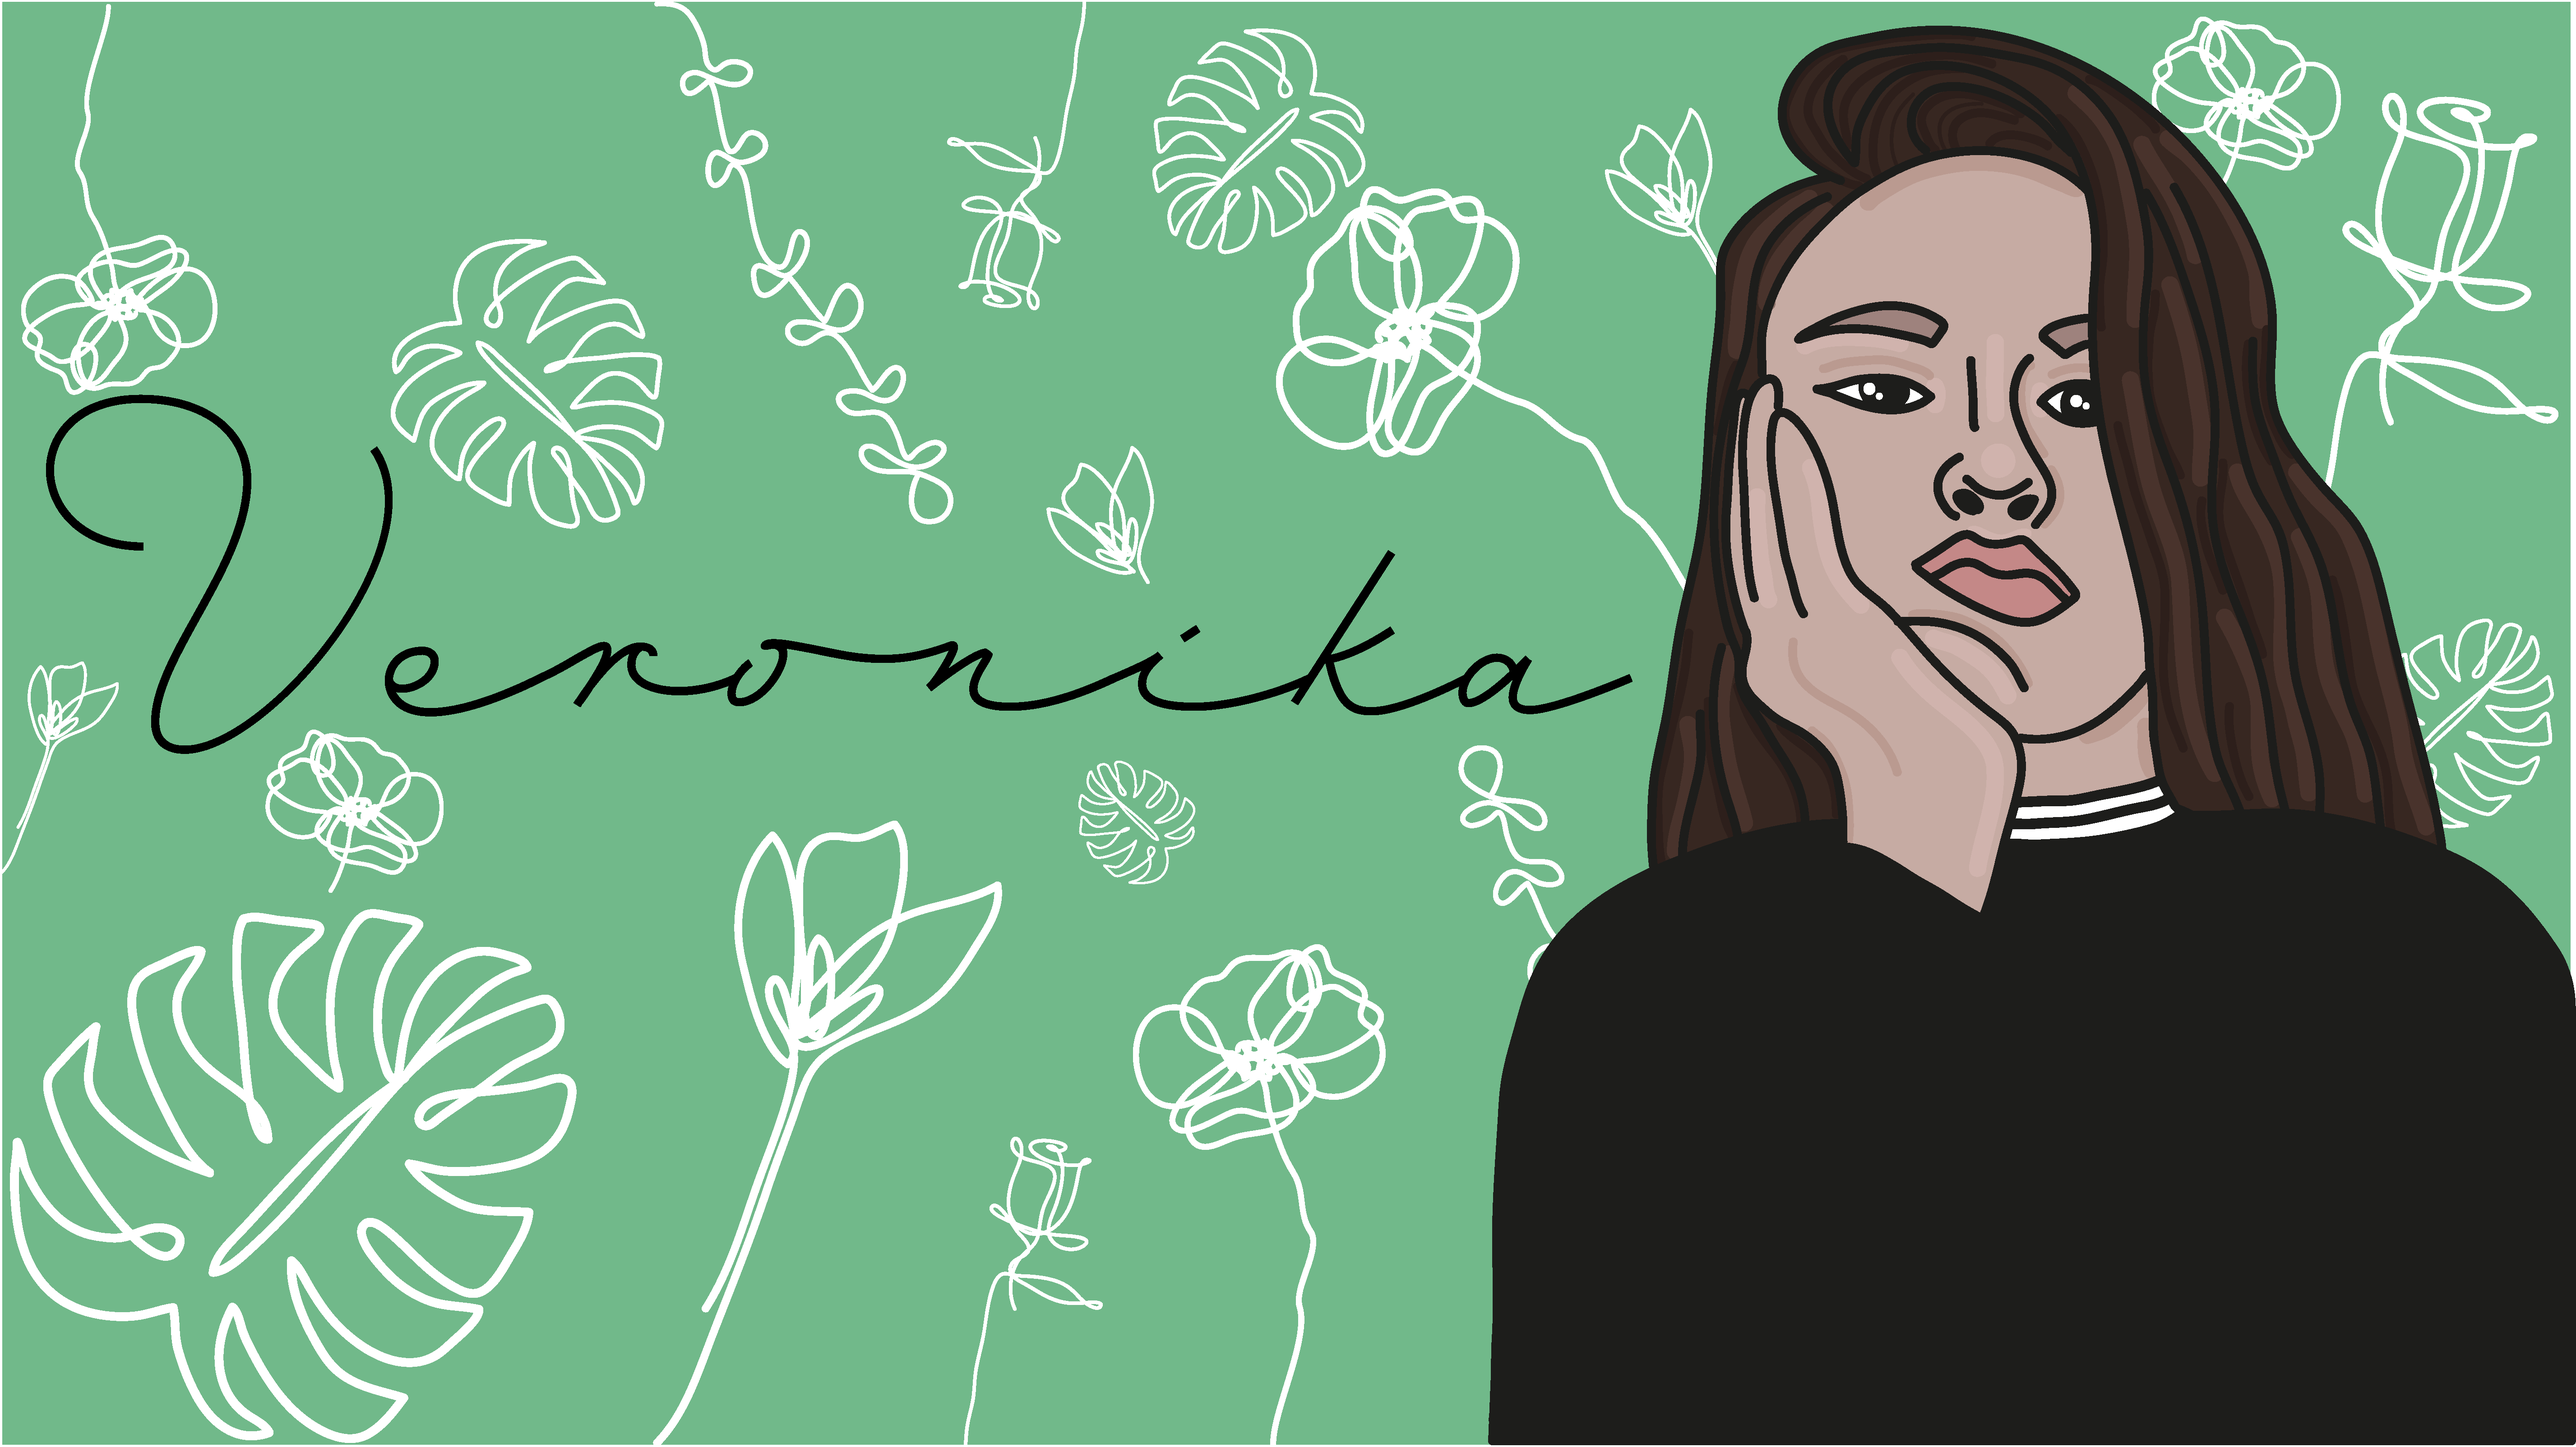
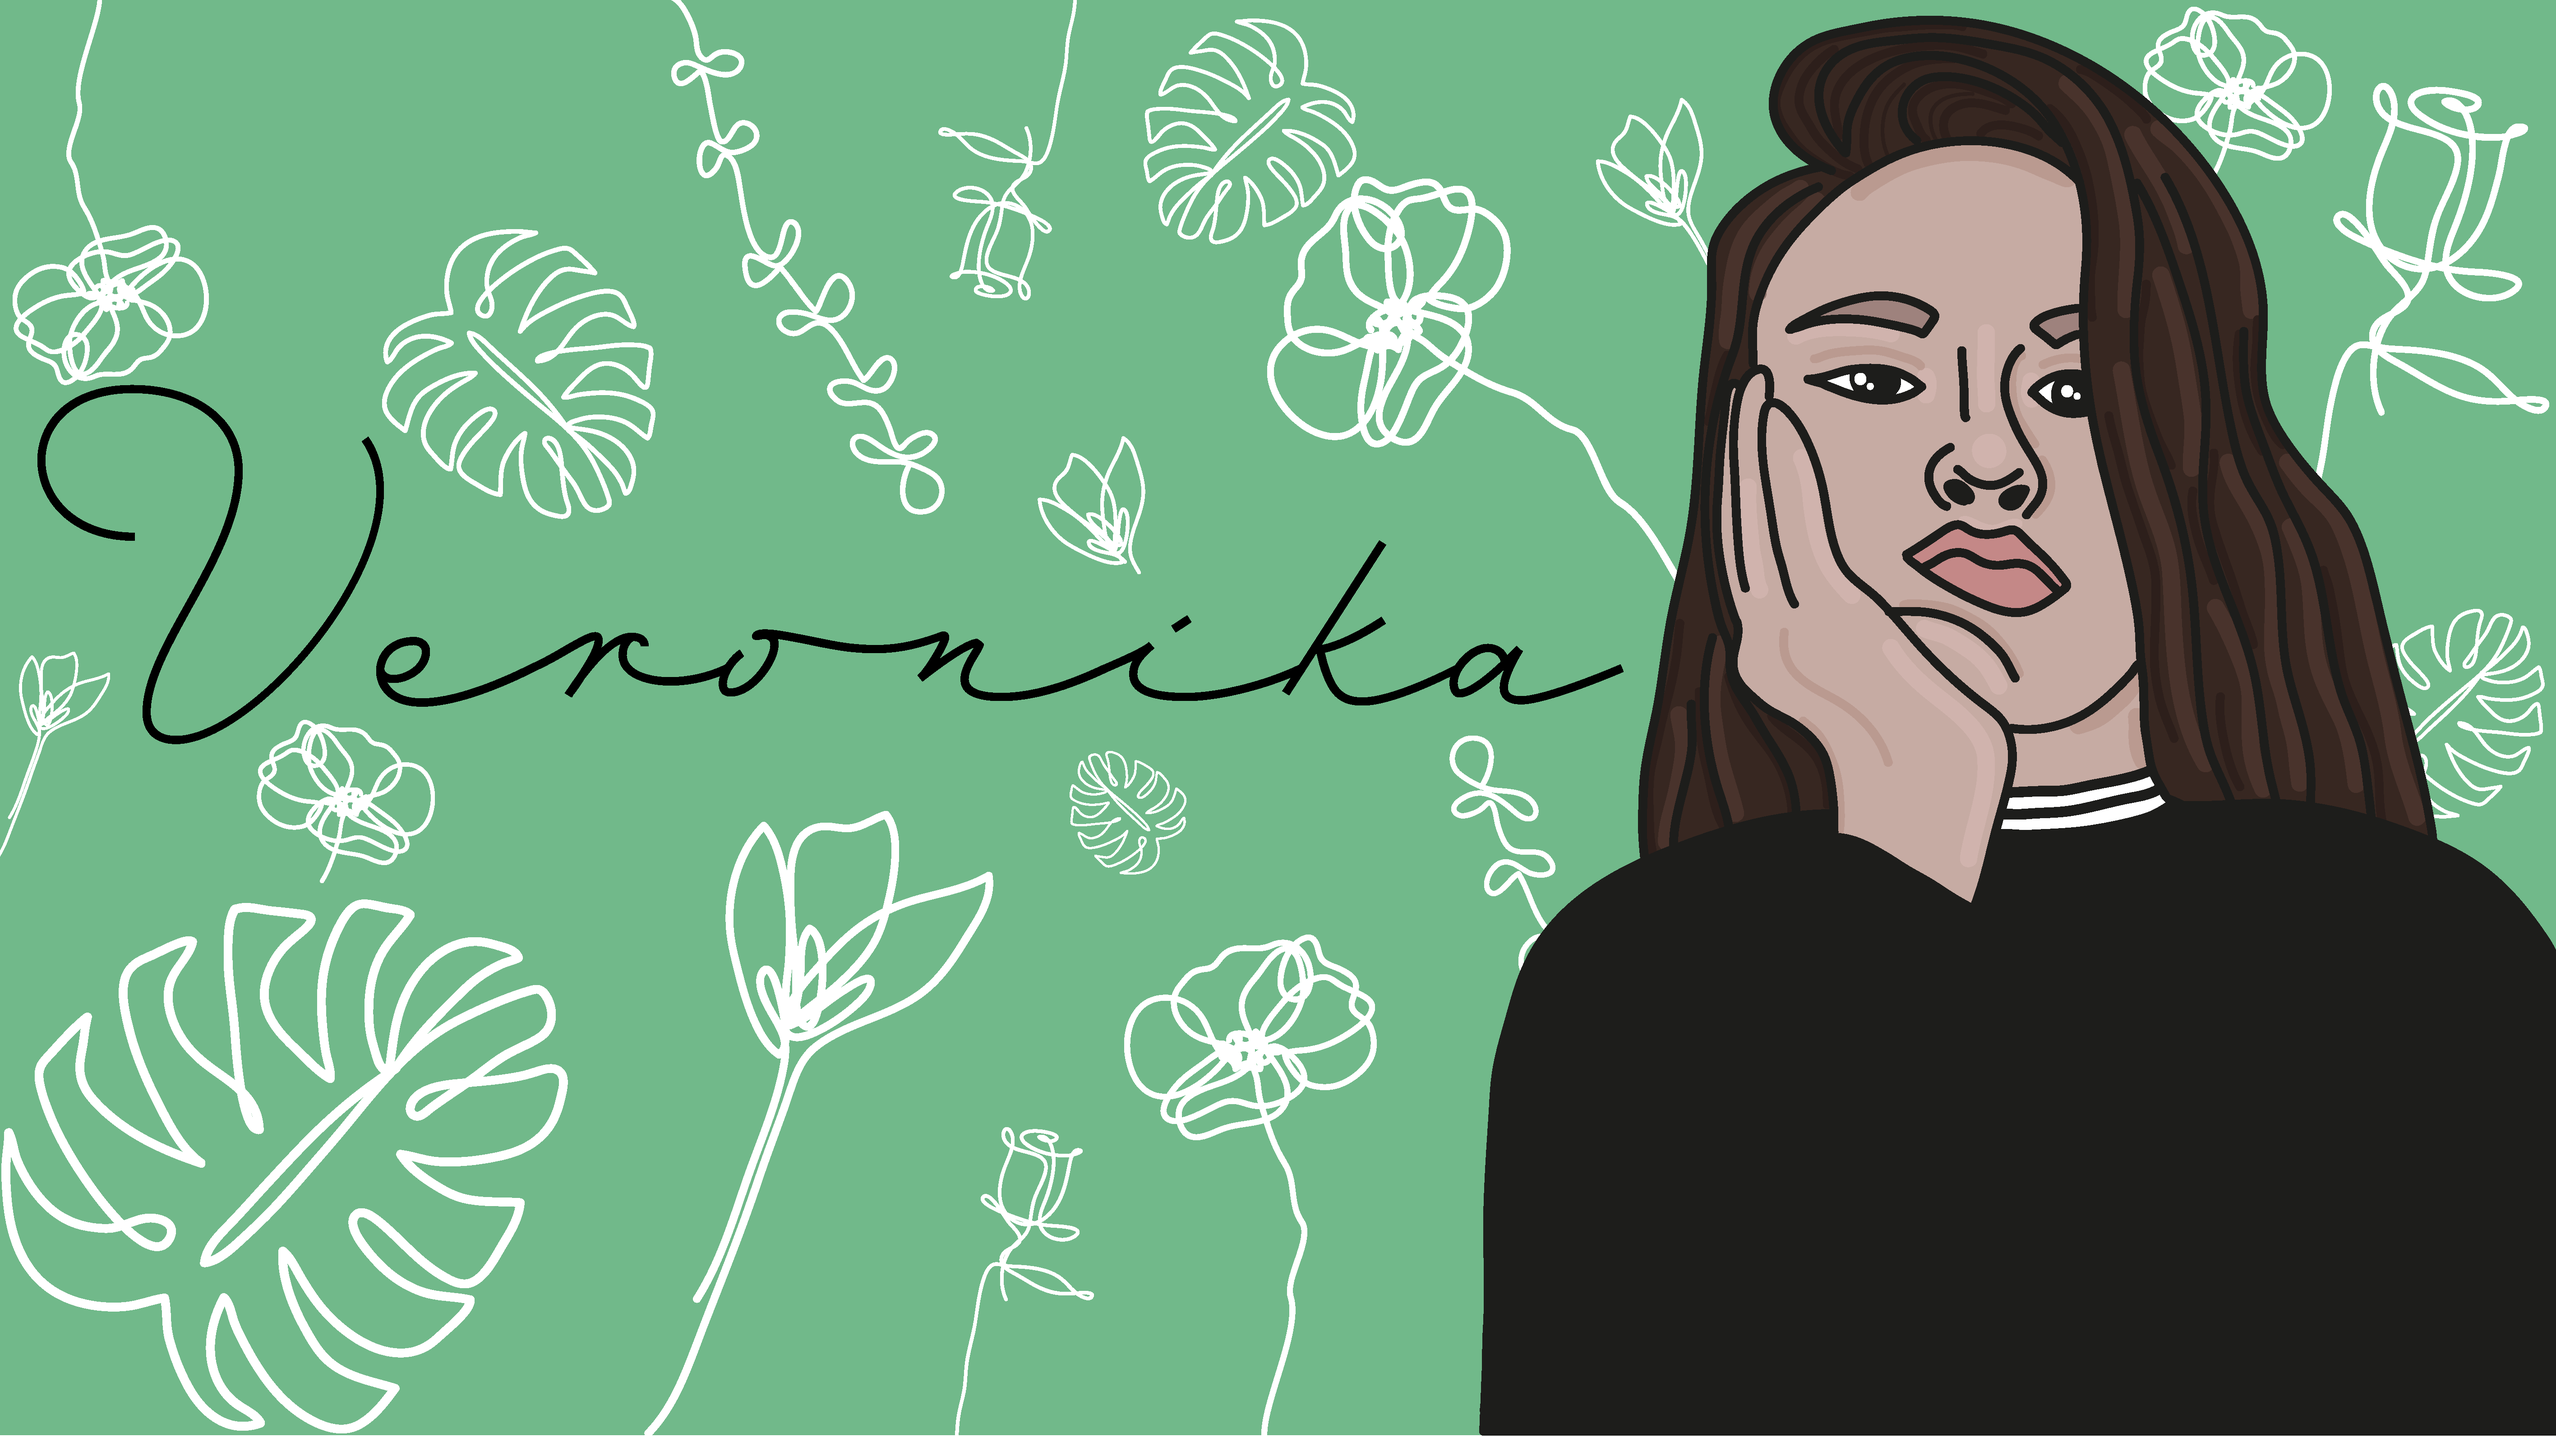
ränder weg juhu

diff --git a/portfolio.html b/portfolio.html
@@ -5,6 +5,8 @@
     <link rel="stylesheet" type="text/css" href="portfolio.css" />
   </head>
   <body>
-    <img src="portfolio-hintergrund.png" class="hintergrund" />
+    <div>
+      <img id="hintergrund" src="portfolio-hintergrund.png" />
+    </div>
   </body>
 </html>

diff --git a/portfolio.css b/portfolio.css
@@ -1,4 +1,12 @@
-.hintergrund {
+#hintergrund {
+  position: absolute;
   width: 100%;
   height: auto;
+  z-index: 1;
+}
+html,
+body {
+  margin: 0px;
+  padding: 0px;
+  overflow: hidden;
 }
